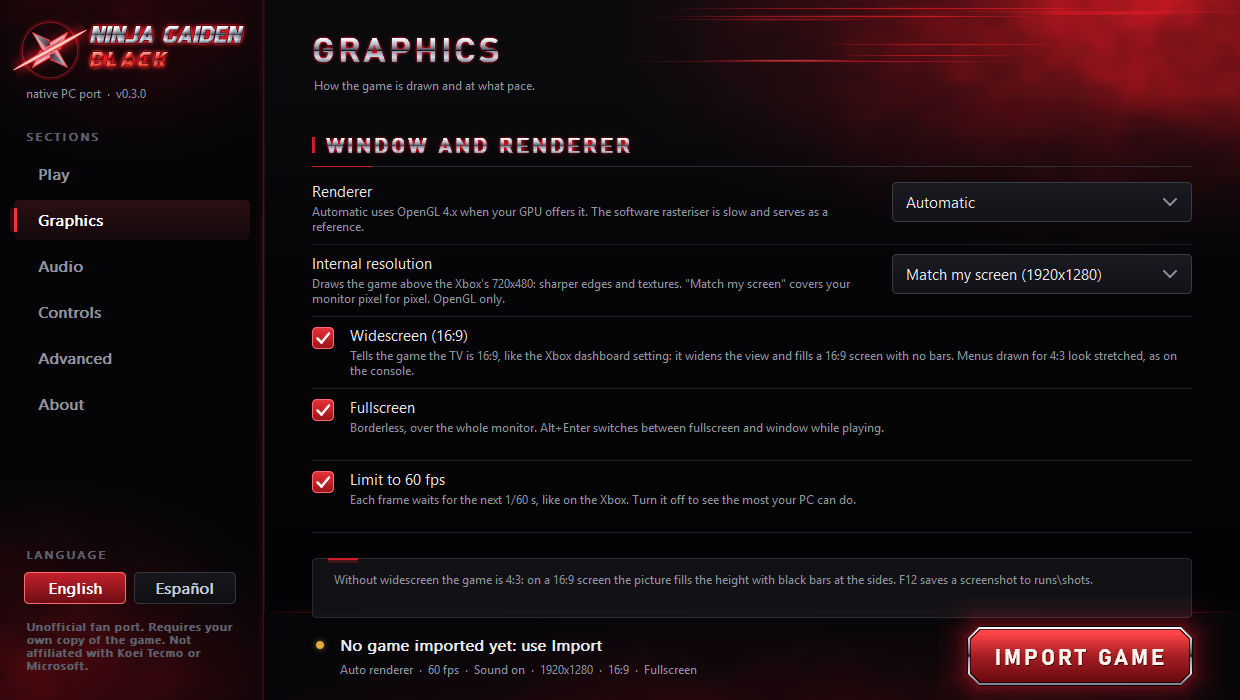
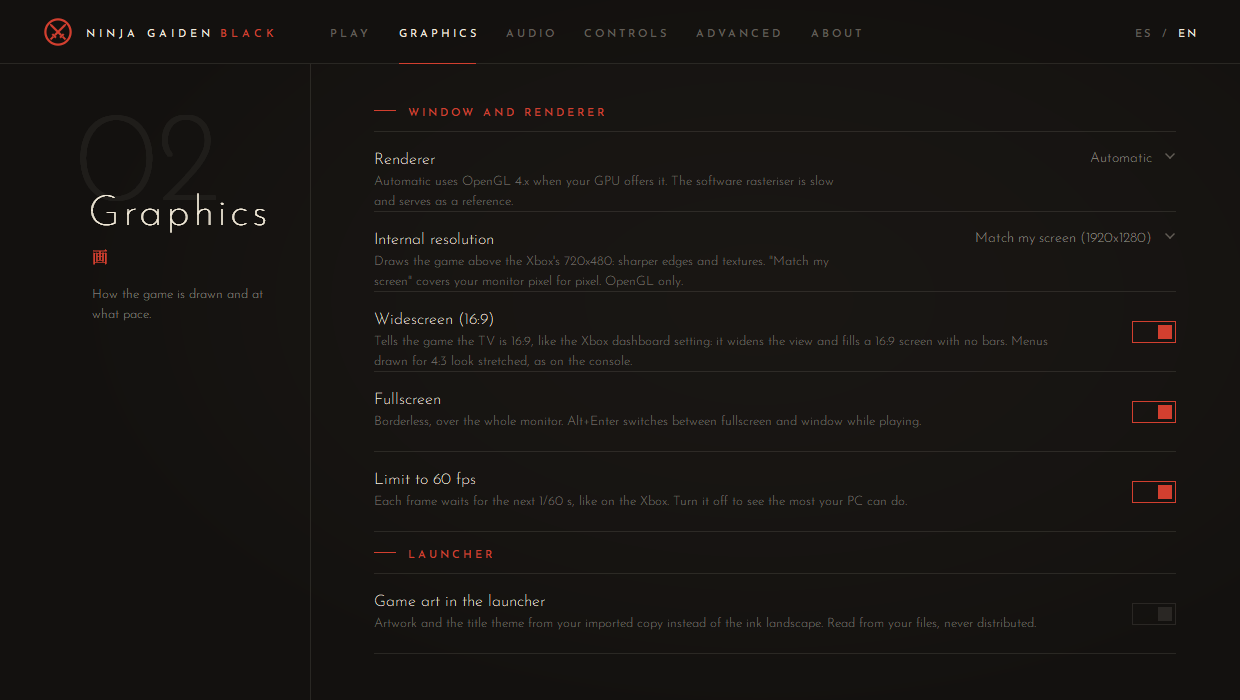
docs: launcher v0.8.0 screenshots, player guide and vault entry

diff --git a/docs/log.md b/docs/log.md
@@ -926,3 +926,28 @@ Details in [[gpu-nv2a]].
   vermilion) and the logotypes used as cream and vermilion masks. The owner's review images are in
   `%NGB_DATA%\comparisons\launcher-laca-2026-10-31\`.
 - **Out of scope here:** general guards against CPU/GPU wait freezes, a separate piece of work after v0.8.0.
+
+## [2026-10-31] feat | Launcher "lacquer and ink" (v0.8.0)
+- **What:** the launcher redesign of [[launcher-laca-design]], built from [[launcher-laca-plan]] on `feat/launcher-laca`.
+  - Tokens: lacquer black, one vermilion accent, 1 px hairlines, square buttons; top bar instead of the sidebar.
+  - Fonts embedded as `RCDATA` and loaded privately: Josefin Sans (OFL) and a 14.6 KB kanji subset of Shippori
+    Mincho B1 (OFL). **Yu Mincho is not on a stock Windows 11** (it comes with the optional Japanese fonts),
+    `VERIFIED` on the owner's PC, so the kanji are carried by the exe. `tests/port/test_launcher.py` checks the faces
+    with `--fonts FILE`.
+  - `ink.c`: the procedural landscape, threaded on the logical grid: 76 ms for 2480 x 1400 (`ink_test`).
+  - `kamon.c` and `make_icon.py`: the crest and the new icon from one signed-distance shape (`kamon_test`).
+  - `gamedata.c`: bounds-checked AFS / XPR0 / sprite-table readers (`gamedata_test`, synthetic and damaged files).
+  - `gameart.c`: the key art, logotypes, title background and ring decoded with the core's `texconv.c`, graded into
+    the palette (`gameart_test`); checked on the owner's PAL copy and on a variant whose BLACK logotype carries a
+    kanji subtitle glued under the letters (trimmed by `ga_trim_subtitle`).
+  - `music.c`: ADX decoder bit-exact with `ngb_tools.audio.adx` (`music_test`) and a `waveOut` player.
+    `bgm.afs#89 bgm_title.adx`: stereo, 44.1 kHz, version 3, 210.5 s, loop 1,970,880 to 9,276,544 samples; the
+    whole track decodes in 75 ms. `VERIFIED`.
+  - `art.c` + `pages.c`: every page and state; the backdrop moves (parallax, mist, the moon's halo, the ring) at
+    2 ms per frame at 100 % DPI (`--perf-anim`).
+- **Bug found while building it:** the hero's mix toward the lacquer ran in `uint32_t`, so ink or art darker than the
+  lacquer wrapped around into bright blocks. `art_test` pins it (RED with the bug, GREEN with the fix).
+- **New launcher switches:** `--no-game-art` (original art only, for README screenshots), `--fonts FILE`,
+  `--perf-anim FILE`, `--no-embedded-fonts`, `--demo widgets`. New `ngb.ini` keys under `[launcher]`: `game_art`,
+  `music`, `hero_index`.
+- README and [[getting-started]] screenshots are the original art only, from a clean first run.

diff --git a/docs/guide/getting-started.md b/docs/guide/getting-started.md
@@ -67,7 +67,7 @@ make backups of their own discs; this project does not provide tools or download
    file or the folder onto the window.
 2. The launcher checks that it is Ninja Gaiden Black. A different game, or a damaged image, is refused with the
    reason.
-3. An image is extracted into the data folder shown on the card. By default that is `%LOCALAPPDATA%\NGBPort`.
+3. An image is extracted into the data folder shown at the bottom right. By default that is `%LOCALAPPDATA%\NGBPort`.
    **Change…** points the launcher at another folder before you import. It does not move files that are already
    there, saves included. An extracted folder is used where it is, without copying.
 
@@ -75,7 +75,7 @@ Extracting takes a few minutes. You can cancel at any time, and nothing half-cop
 
 ## 5. Play
 
-Click **PLAY**. The game opens in fullscreen at your screen's resolution.
+Click **PLAY** (or press Enter). The game opens in fullscreen at your screen's resolution.
 
 | Key | Action |
 | --- | --- |
@@ -104,6 +104,10 @@ them. Uninstalling the launcher does not touch it.
   menus are drawn for 4:3 and look stretched, as they did on the console. Turn it off for the original 4:3 picture
   with bars at the sides.
 - **Limit to 60 fps:** the game's speed. Leave it on.
+- **Game art in the launcher:** once your game is imported, the launcher can show the game's own key art and
+  logotype, and play the title theme, all read from your copy while it runs. Nothing is copied or shared. It is on by
+  default; turn it off for the launcher's own ink-wash art. **Music** in the top bar (or **Audio > Title theme in the
+  launcher**) silences the theme.
 
 ## 6. Updates
 

diff --git a/docs/target/launcher-laca-design.md b/docs/target/launcher-laca-design.md
@@ -1,12 +1,12 @@
 ---
 tags: [ngb, target, launcher, design]
 updated: 2026-10-31
-status: draft
+status: current
 ---
 
 # Launcher redesign: "lacquer and ink" (design spec)
 
-> PROPOSAL. This page describes the launcher we are building for v0.8.0, not the current one.
+> PROPOSAL, built for v0.8.0 (see [[log]] 2026-10-31). Deviations found while building it are in the log entry.
 > The current launcher is described in [[log]] (entries "Launcher v2" and later). Plan: [[launcher-laca-plan]].
 
 ## Why
@@ -51,8 +51,8 @@ Rules: one accent only; flat surfaces (no glow, no chrome, no bevel); square but
   - Display: weight 100, wide tracking (0.06 to 0.1 em). Micro labels: 600, 10.5 px, tracking 0.26 em, uppercase.
   - GDI has no letter-spacing: tracked text is drawn glyph by glyph with `GetTextExtentPoint32` advances (the
     v2 `txt_chrome` already does this).
-- **Kanji:** Yu Mincho Demibold (ships with Windows 10 and 11). Fallback: MS Mincho, then skip the kanji (they are
-  ornament, never the only carrier of meaning).
+- **Kanji:** a subset of Shippori Mincho B1 SemiBold (OFL), embedded: Yu Mincho is not on a stock Windows 11.
+  Fallbacks: Yu Mincho, MS Mincho, then skip the kanji (they are ornament, never the only carrier of meaning).
 - If the embedded font fails to load, fall back to Segoe UI Light / Semibold.
 
 ### Layout (1240 × 700 logical, scaled to the system DPI)

diff --git a/README.md b/README.md
@@ -26,7 +26,9 @@ OpenGL renderer and an APU audio engine.
 - **A launcher that does the rest:**
   - it imports your disc image (Redump or XISO) or an extracted folder, and checks that it is the right game;
   - it updates itself;
-  - it has English and Spanish UI.
+  - it has English and Spanish UI;
+  - it has its own ink-wash art or, if you turn it on, the key art, logotype and title theme read from your own copy
+    while it runs (nothing of the game is shipped).
 
 ## Play
 

diff --git a/docs/target/launcher-laca-plan.md b/docs/target/launcher-laca-plan.md
@@ -1,7 +1,7 @@
 ---
 tags: [ngb, target, launcher, plan]
 updated: 2026-10-31
-status: draft
+status: current
 ---
 
 # Launcher "lacquer and ink": implementation plan
